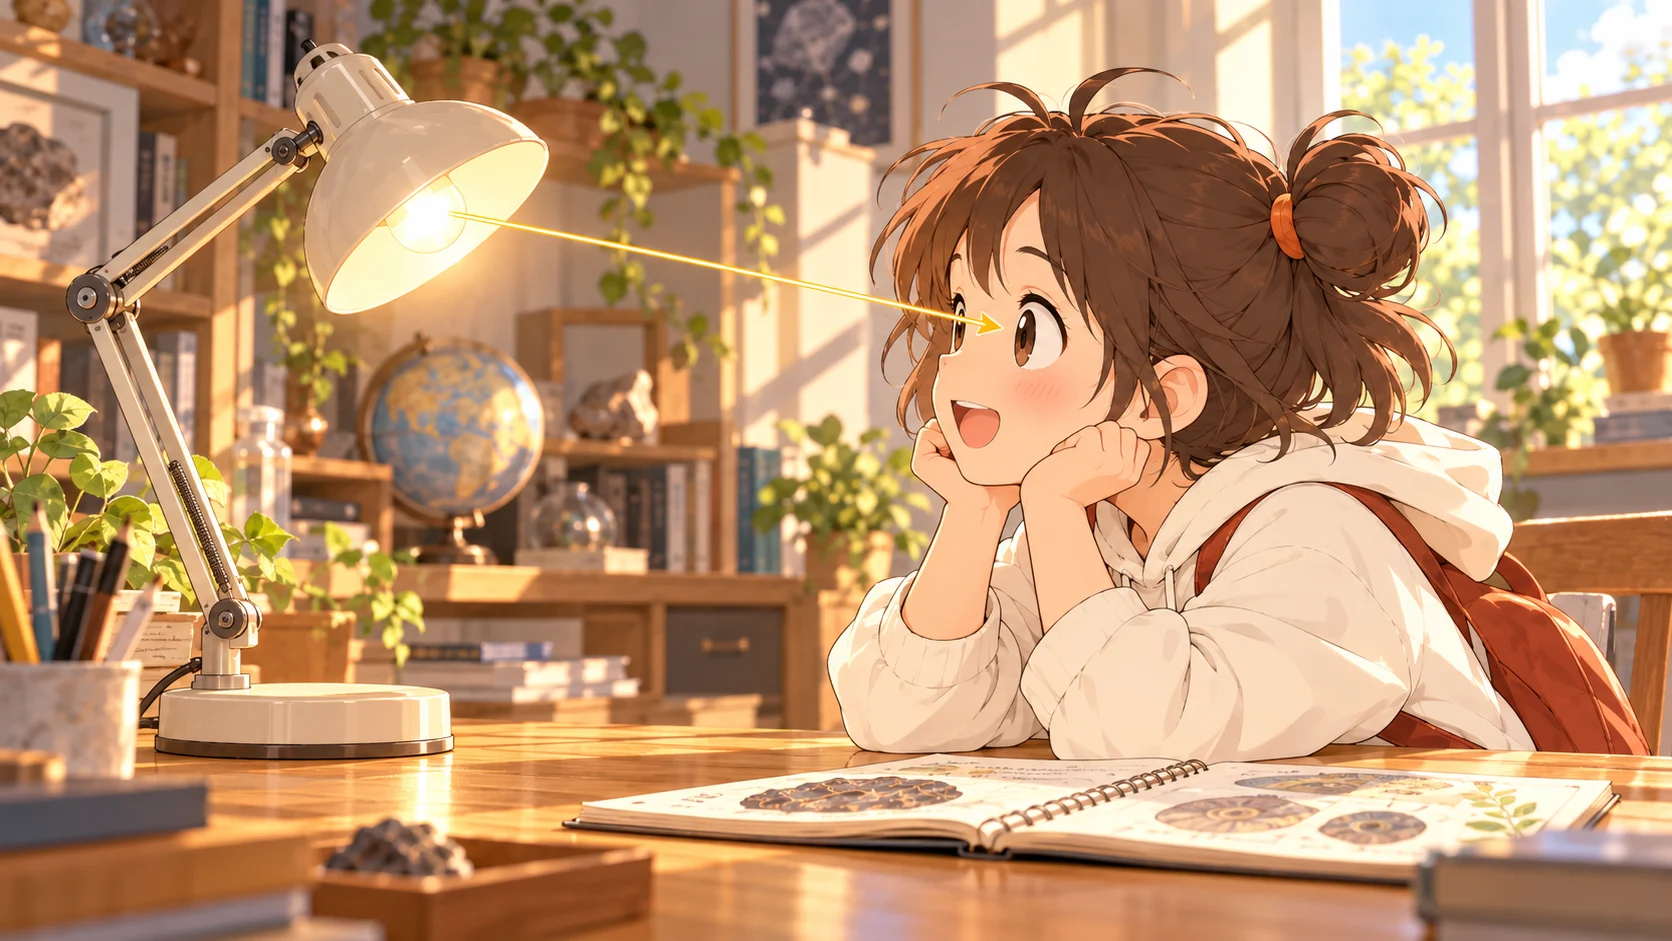
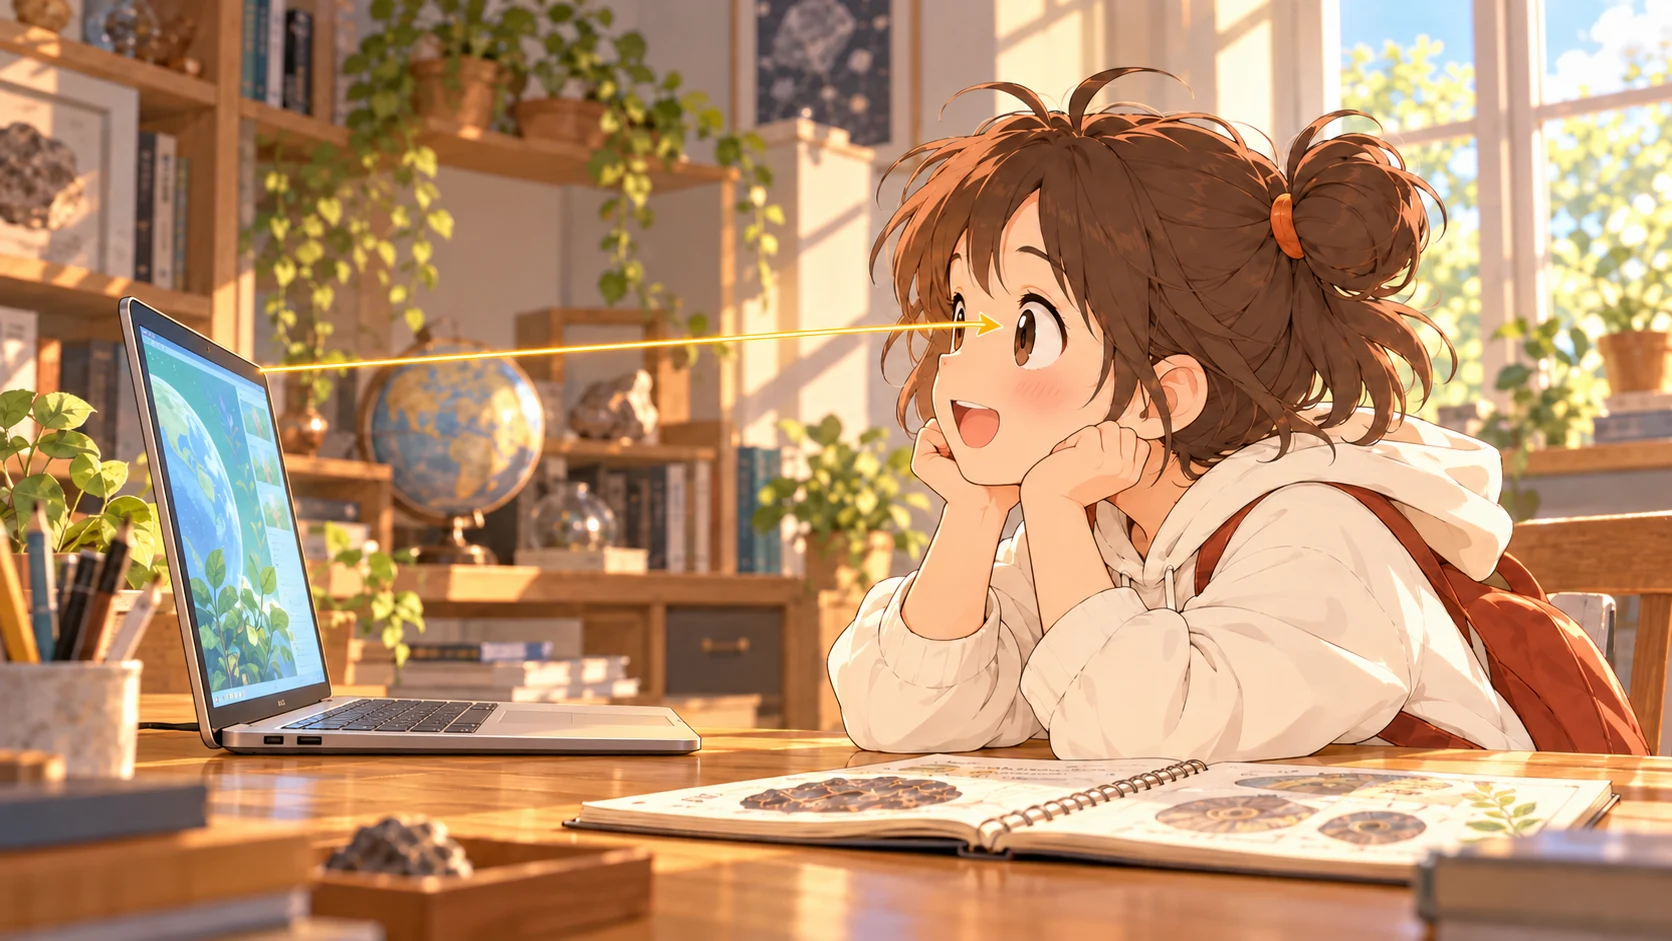
Replace lamp with laptop screen in direct light example

diff --git a/units/1/parts/1.1/index.html b/units/1/parts/1.1/index.html
@@ -186,10 +186,10 @@
             <div class="visual">
               <div class="scene-pair">
                 <figure class="scene-example">
-                  <div class="scene-example-head"><span class="scene-index">例 1</span><h3>小葵直接看見發光的桌燈</h3></div>
-                  <p class="scene-summary">桌燈發出的光沿直線進入小葵的眼睛。</p>
-                  <img class="scene-image" src="assets/direct-light-to-eye.webp" alt="小葵在書桌旁看著桌燈；一條直線光路由燈泡射入她的眼睛。" loading="eager" decoding="async">
-                  <figcaption class="scene-path"><span class="scene-path-label">小葵的光路</span><span>光源</span><span class="path-arrow">→</span><span>眼睛</span></figcaption>
+                  <div class="scene-example-head"><span class="scene-index">例 1</span><h3>小葵看見筆電螢幕發出的光</h3></div>
+                  <p class="scene-summary">螢幕發出的光沿直線進入小葵的眼睛。</p>
+                  <img class="scene-image" src="assets/direct-light-to-eye.webp" alt="小葵坐在書桌前看向筆電螢幕；一條直線光路從螢幕射入她的眼睛。" loading="eager" decoding="async">
+                  <figcaption class="scene-path"><span class="scene-path-label">小葵的光路</span><span>螢幕</span><span class="path-arrow">→</span><span>眼睛</span></figcaption>
                 </figure>
                 <figure class="scene-example">
                   <div class="scene-example-head"><span class="scene-index">例 2</span><h3>阿公看見被燈光照亮的書</h3></div>
